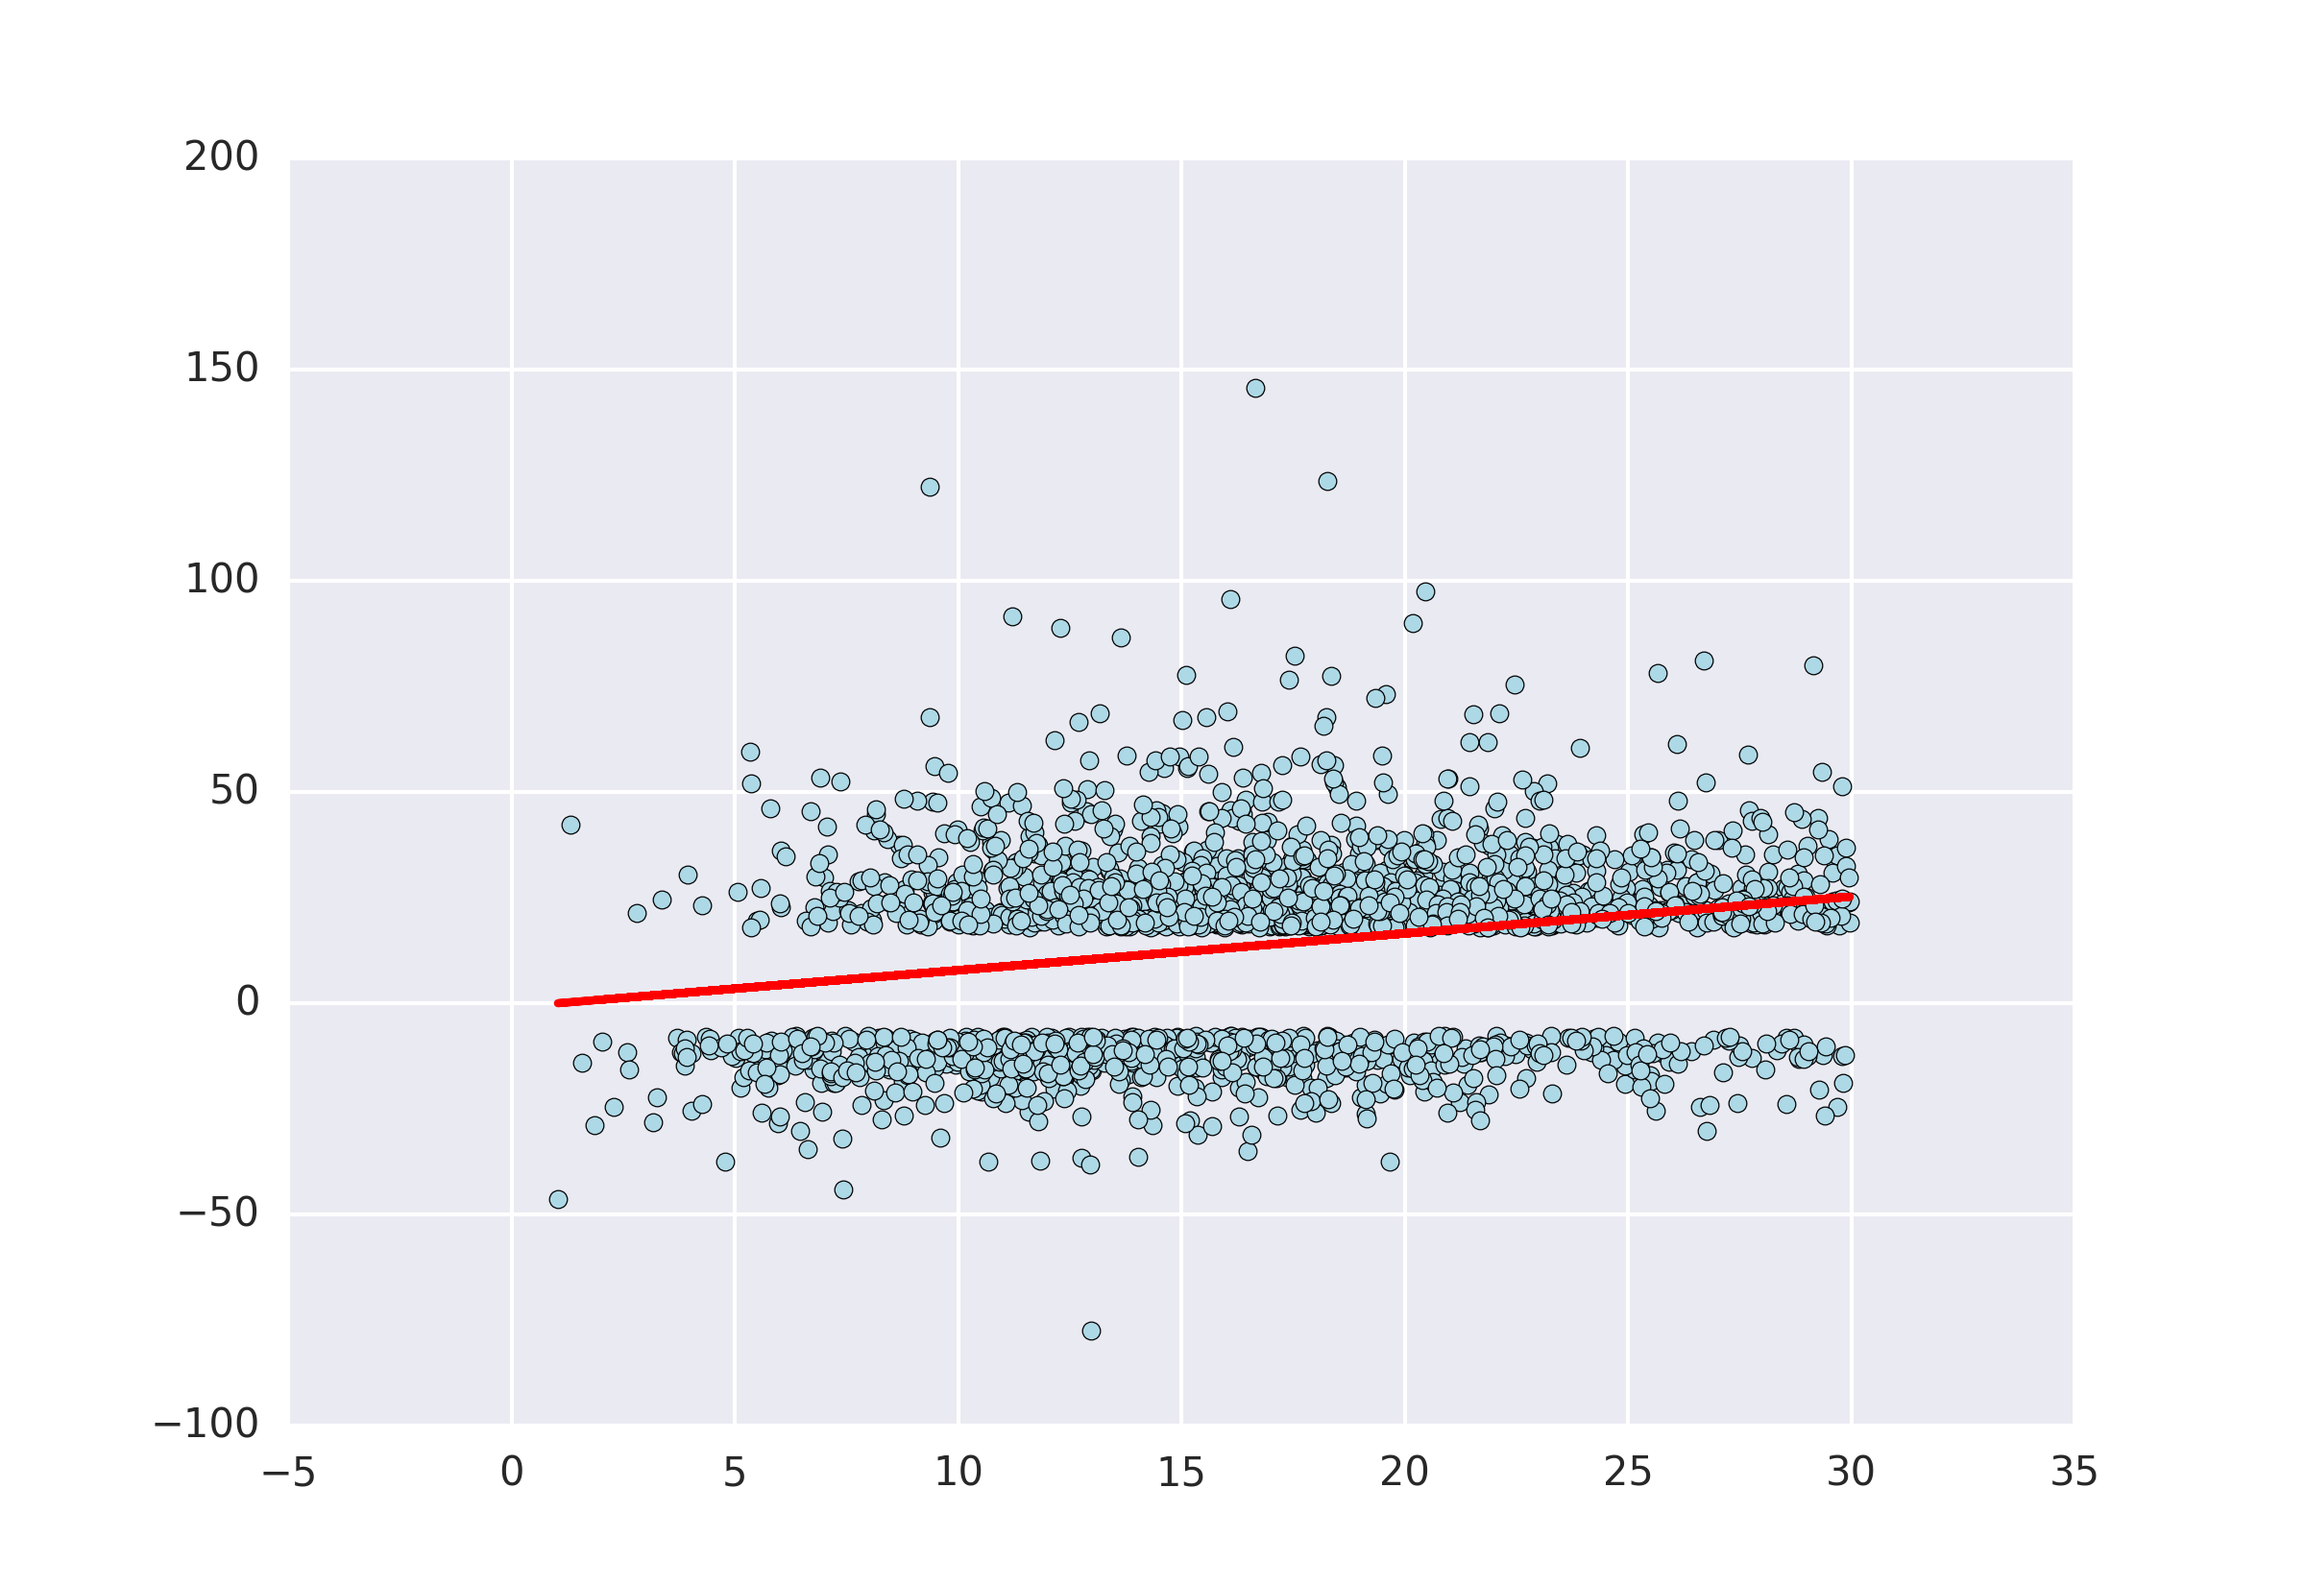
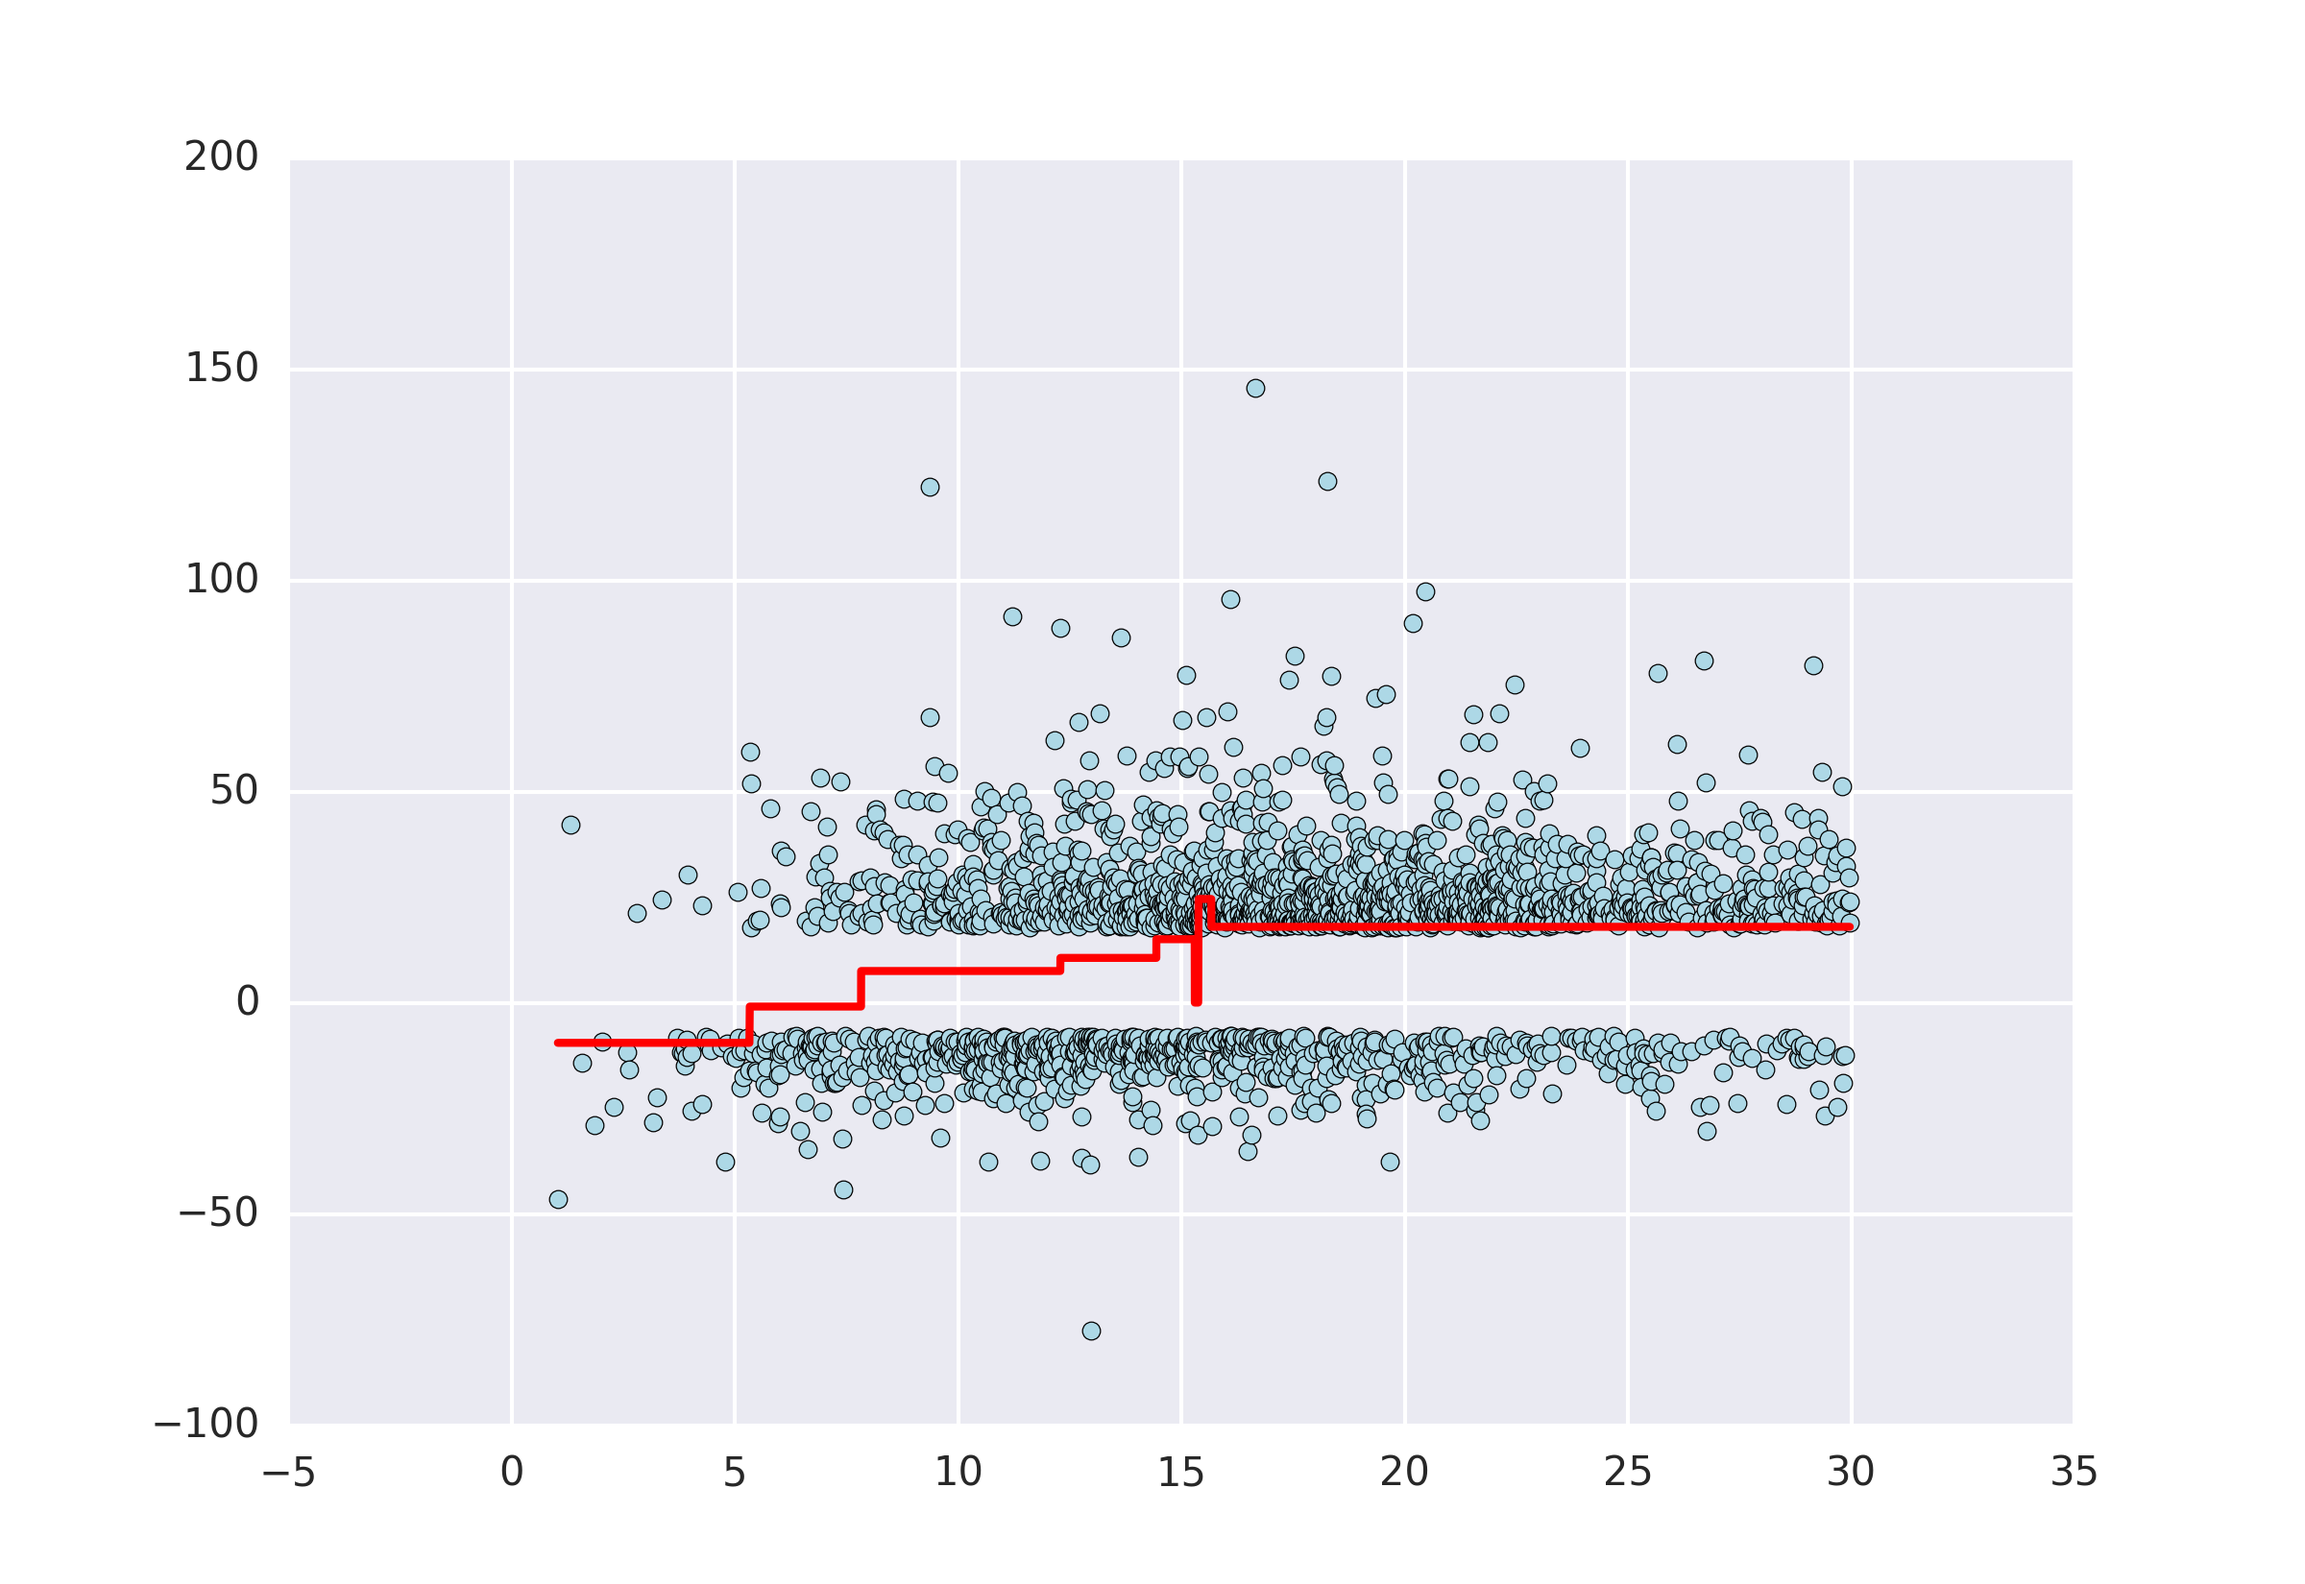
finished the chapter

Changed region(s): [[0.375, 0.4945, 0.8125, 0.6182], [0.25, 0.6182, 0.7188, 0.7109], [0.75, 0.6491, 0.7812, 0.68]]

diff --git a/scripts/continuous_variables.py b/scripts/continuous_variables.py
@@ -74,6 +74,8 @@ def linear_regressor(df, xcols):
     plt.close()
     
     lin_regplot(np.transpose(np.array([X_train])), y_train, lr)
+    plt.savefig(IMG_PATH + 'lin_reg_cost.png', dpi=300)
+    plt.close()
     
     # Find the average return of a stock with PE = 20
     # Note: will give odd results if x values are standardized and input is not
@@ -248,16 +250,14 @@ def nonlinear(df, xcols):
              lw=2,     
              linestyle='--')    
         
-    plt.xlabel('% lower status of the population [LSTAT]')    
-    plt.ylabel('Price in $1000\'s [MEDV]')    
-    plt.legend(loc='upper right')    
+    plt.xlabel('x-val')    
+    plt.ylabel('Return')    
+    plt.legend(loc='best')    
     plt.tight_layout()
-    plt.savefig(PL10 + 'polyhouse_example.png', dpi=300)
+    plt.savefig(IMG_PATH + 'nonlinear_regr.png', dpi=300)
     plt.close()
     
-    X = df[['LSTAT']].values
-    y = df['MEDV'].values
-    
+    pdb.set_trace()
     # transform features
     X_log = np.log(X)
     y_sqrt = np.sqrt(y)
@@ -275,33 +275,31 @@ def nonlinear(df, xcols):
              color='blue', 
              lw=2)
     
-    plt.xlabel('log(% lower status of the population [LSTAT])')
-    plt.ylabel('$\sqrt{Price \; in \; \$1000\'s [MEDV]}$')
-    plt.legend(loc='lower left')
+    plt.xlabel('x-val')
+    plt.ylabel('Return')
+    plt.legend(loc='best')
     plt.tight_layout()
-    plt.savefig(PL10 + 'transform_example.png', dpi=300)
+    plt.savefig(IMG_PATH + 'sqrt_log.png', dpi=300)
 
-def random_forest_regression():
-    df = pd.read_csv('https://archive.ics.uci.edu/ml/machine-learning-databases/housing/housing.data',     
-                     header=None, sep='\\s+')    
-    df.columns = ['CRIM', 'ZN', 'INDUS', 'CHAS',     
-                  'NOX', 'RM', 'AGE', 'DIS', 'RAD',     
-                  'TAX', 'PTRATIO', 'B', 'LSTAT', 'MEDV']
-    X = df[['LSTAT']].values
-    y = df['MEDV'].values
+def random_forest_regression(df, xcols):
+    y = df['target_proxy']
+    X = df[list(xcols)[0]]
+    X = np.transpose(np.array([X]))
+    
+    # Standardize and split the training nad test data
+    X_std = standardize(X)
+    ts = 0.3
+    X_train, X_test, y_train, y_test = \
+          train_test_split(X_std, y, test_size=ts, random_state=0)
     
     tree = DecisionTreeRegressor(max_depth=3)
     tree.fit(X, y)
     sort_idx = X.flatten().argsort()
     lin_regplot(X[sort_idx], y[sort_idx], tree)
-    plt.xlabel('% lower status of the population [LSTAT]')
-    plt.ylabel('Price in $1000\'s [MEDV]')
-    plt.savefig(PL10 + 'tree_regression.png', dpi=300)
+    plt.xlabel('x-val')
+    plt.ylabel('Return')
+    plt.savefig(IMG_PATH + 'tree_regression.png', dpi=300)
     plt.close()
-    
-    y = df['MEDV'].values
-    X_train, X_test, y_train, y_test = train_test_split(
-        X, y, test_size=0.4, random_state=1)
     
     forest = RandomForestRegressor(n_estimators=1000, 
                                    criterion='mse', 
@@ -333,8 +331,8 @@ def random_forest_regression():
                 label='Test data')    
     plt.xlabel('Predicted values')    
     plt.ylabel('Residuals')    
-    plt.legend(loc='upper left')    
+    plt.legend(loc='best')    
     plt.hlines(y=0, xmin=-10, xmax=50, lw=2, color='red')    
     plt.xlim([-10, 50])    
     plt.tight_layout()
-    plt.savefig(PL10 + 'slr_residuals.png', dpi=300)
+    plt.savefig(IMG_PATH + 'slr_residuals.png', dpi=300)

diff --git a/scripts/run_ml.py b/scripts/run_ml.py
@@ -65,9 +65,8 @@ def run(inputs):
     # timeme(linear_regression_sklearn)(df, tuple(inputs))
     # timeme(ransac)(df, tuple(inputs))
     # timeme(polynomial_regression)(df, tuple(inputs))
-    timeme(nonlinear)(df, tuple(inputs))
-    # timeme(random_forest_regression)(df, tuple(inputs))
-    
+    # timeme(nonlinear)(df, tuple(inputs))
+    timeme(random_forest_regression)(df, tuple(inputs))
     
 
 def selectInputs(df, inputs):

diff --git a/utils/ml_utils.py b/utils/ml_utils.py
@@ -72,6 +72,4 @@ def error(p):
 def lin_regplot(X, y, model):
     plt.scatter(X, y, c='lightblue')
     plt.plot(X, model.predict(X), color='red', linewidth=2)
-    plt.savefig(IMG_PATH + 'lin_reg_cost.png', dpi=300)
-    plt.close()
     return None
